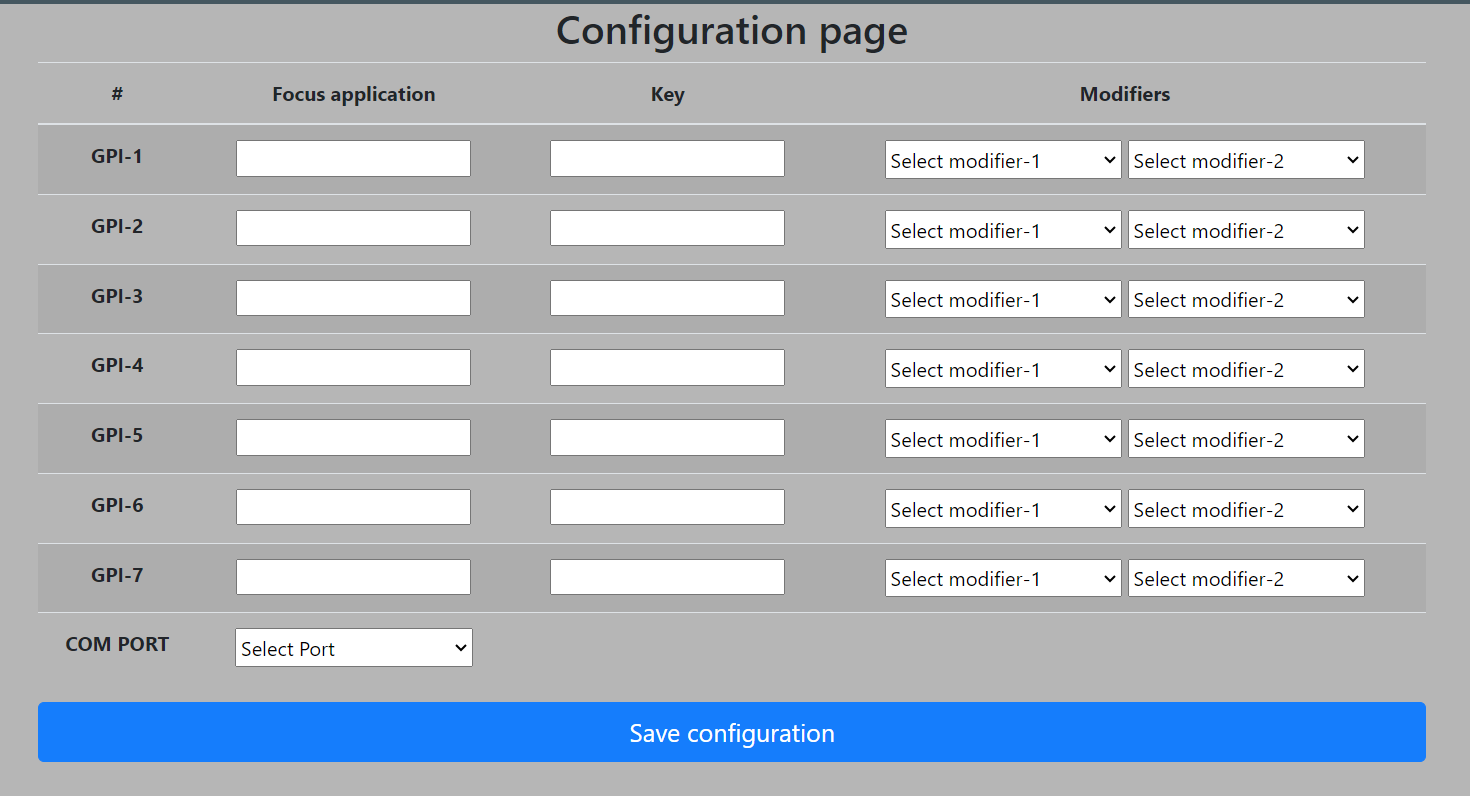
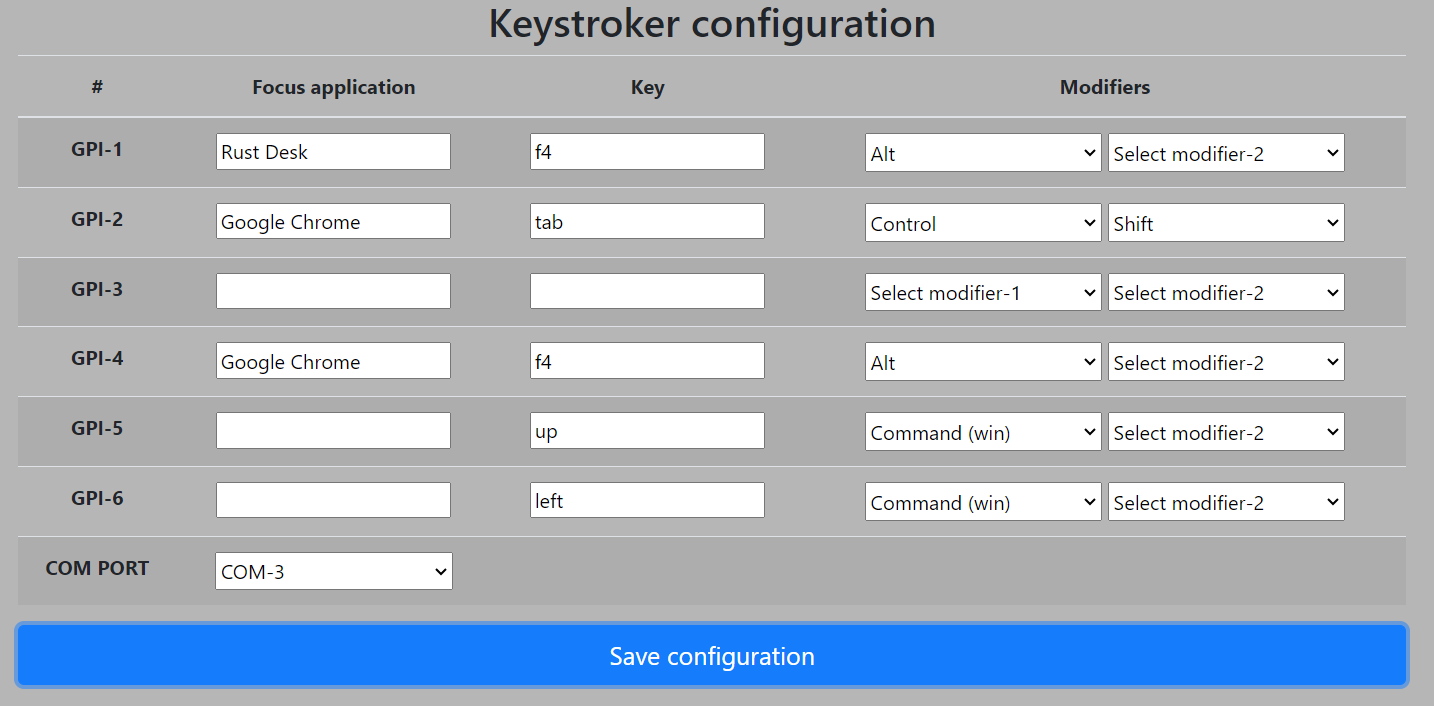
v 1.0

diff --git a/src/1-config/index.html b/src/1-config/index.html
@@ -9,7 +9,7 @@
 </head>
 <body>
     <div class="container">
-        <h2 style="text-align: center;">Configuration page</h2>
+        <h2 style="text-align: center;">Keystroker configuration</h2>
         
         <table class="table table-striped">
             <thead>

diff --git a/readme.md b/readme.md
@@ -27,7 +27,7 @@ NThe Node.js application operates on the client side, monitoring both serial and
 
 It utilizes the robotjs library for key transmission and node-window-manager for managing application focus.
 
-Additionally, a web configuration page is provided to map GPIs to specific applications and keystrokes.
+Additionally, a web configuration page is provided to map GPIs to specific applications and keystrokes. Those settings are cached, and keystroker will "remember" them after reset.
 
 For serial connection, the serial COM port can be configured.
 
